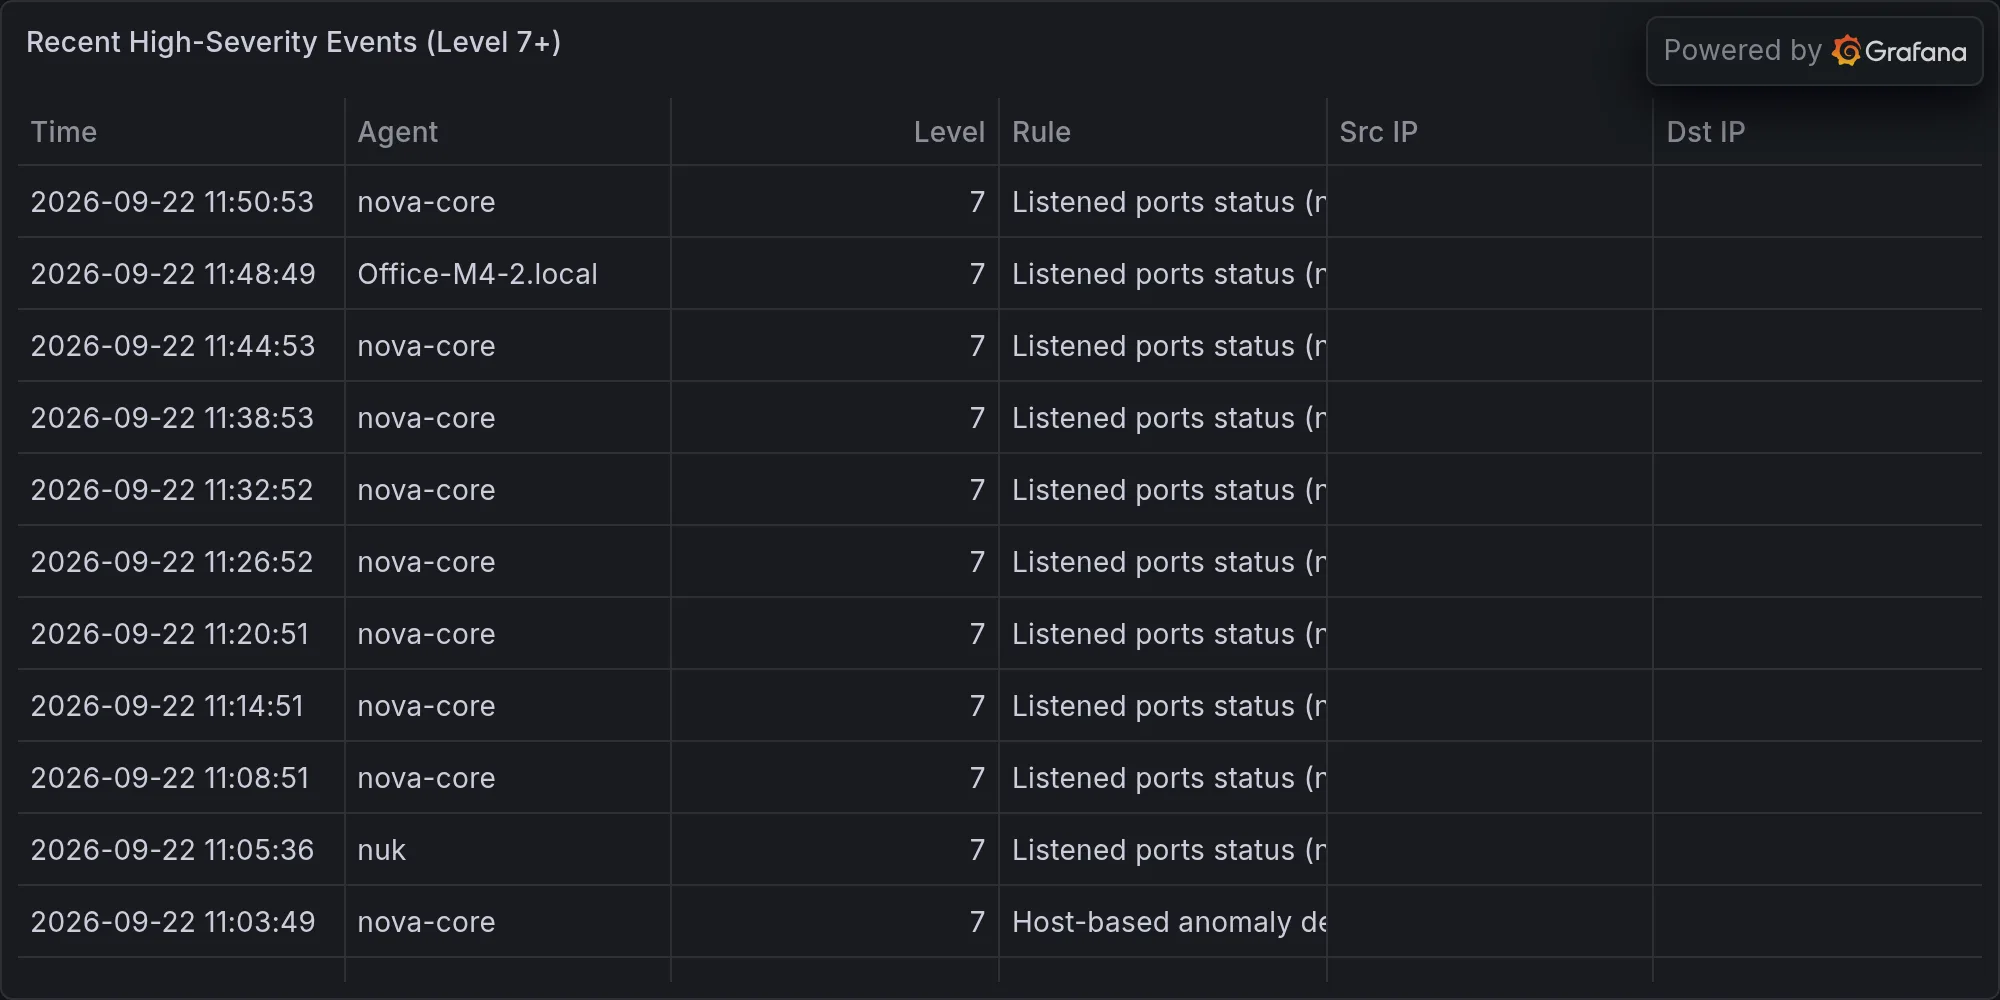
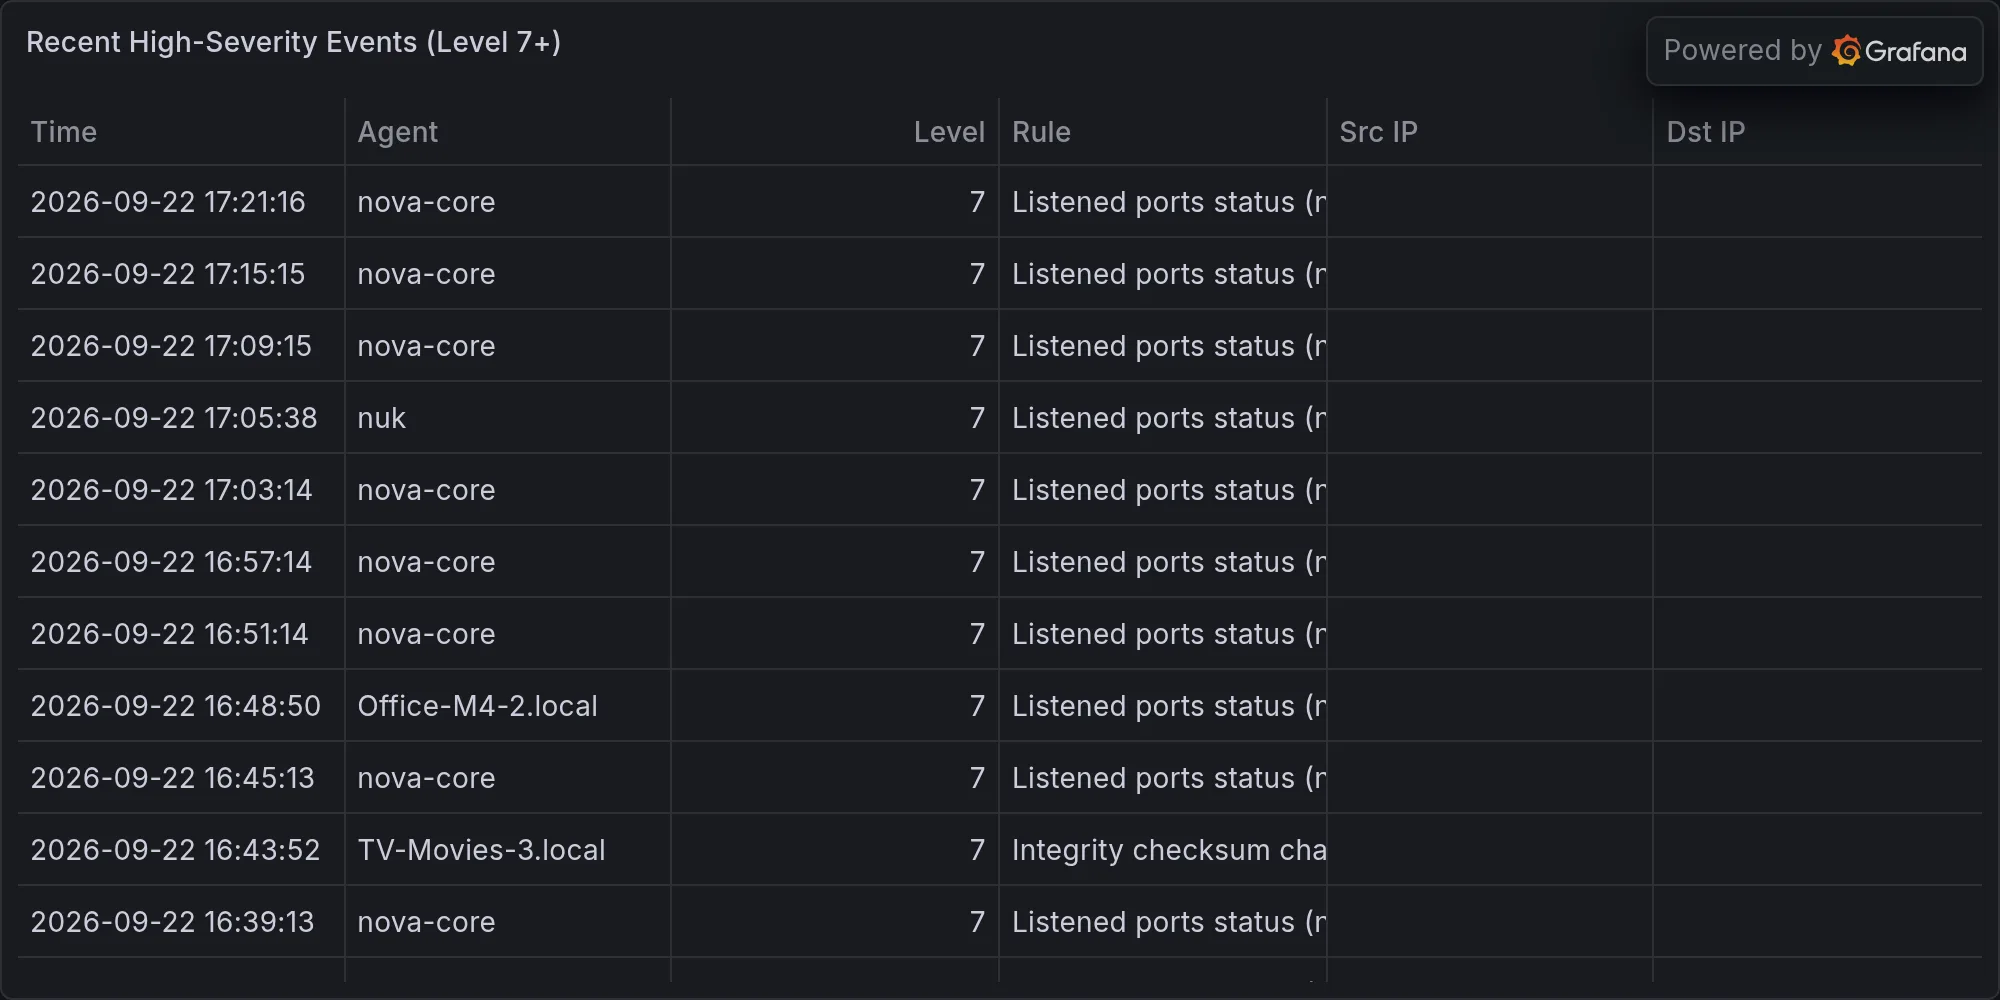
security: 2026-09-22 — **Capitol Hill Proposes $100M AI-Cyber Defense Pil

diff --git a/content/operations/2026-09-22-capitol-hill-proposes-100m-ai-cyber-defense-pilot-for-critic.md b/content/operations/2026-09-22-capitol-hill-proposes-100m-ai-cyber-defense-pilot-for-critic.md
@@ -1,0 +1,57 @@
+---
+title: "🛡 **Capitol Hill Proposes $100M AI-Cyber Defense Pilot for Critical Infrastructure Following Water Sector Attacks**"
+date: 2026-09-22T17:24:37-07:00
+draft: false
+categories: ["operations"]
+tags: ["breaking-alert", "cyberscoop-after-water-attacks-capitol-h", "security"]
+description: "BREAKING: CyberScoop: After water attacks, Capitol Hill offers its own proposal for an AI-cyber test program"
+cover:
+  image: "/images/operations/2026-09-22-capitol-hill-proposes-100m-ai-cyber-defense-pilot-for-critic.webp"
+  alt: "**Capitol Hill Proposes $100M AI-Cyber Defense Pilot for Critical Infrastructure Following Water Sector Attacks**"
+  relative: false
+---
+
+*Published Tuesday, September 22, 2026 at 05:24 PM PT*
+
+![**Capitol Hill Proposes $100M AI-Cyber Defense Pilot for Critical Infrastructure Following Water Sector Attacks**](/images/operations/2026-09-22-capitol-hill-proposes-100m-ai-cyber-defense-pilot-for-critic.webp)
+
+**BLUF:** In response to confirmed AI-fueled attacks on water infrastructure, bipartisan House Democrats are proposing a separate $100 million Department of Homeland Security pilot program to help critical infrastructure operators defend against cyber threats. The proposal runs parallel to an existing administration-led pilot; specific attack details remain limited in available reporting.
+
+**DETAILS**
+
+- **Trigger event:** Recent attacks on water sector prompted legislative response; U.S. agencies have characterized AI-fueled attacks as an "active threat" to water and other critical infrastructure sectors.
+
+- **Proposal scope:** $100 million DHS pilot program sponsored by a key House Democrat with bipartisan backing; explicitly designed to assist critical infrastructure owners and operators with cybersecurity hardening.
+
+- **Separate track:** This House proposal is distinct from an ongoing administration-proposed pilot program — suggests congressional concern that existing federal initiatives may be insufficient or slow-moving.
+
+- **Broader context:** Related initiatives already underway include Project Watershed 250 (water-focused red-team exercises in Texas), CISA Cyber Storm X (multi-sector preparedness testing), and OpenAI/CIS AI cyber defense pilot; indicates sustained federal focus on AI-driven infrastructure threats.
+
+- **Article source truncated:** Full reporting details unavailable — CyberScoop article summary incomplete, limiting visibility into attack specifics, affected utilities, or damage assessment.
+
+**IMPACT**
+
+- **Scope:** U.S. water, wastewater, and broader critical infrastructure sectors (SLTT governments, private operators).
+- **Affected parties:** Water utilities, municipal operators, and critical infrastructure owners lacking advanced AI-threat defenses.
+- **Immediacy:** Moderate — proposal stage, not yet enacted; parallel initiatives suggest federal awareness is active but response fragmented across multiple pilots.
+
+**RECOMMENDED ACTIONS**
+
+- **Critical infrastructure operators:** Monitor House legislative progress; assess current defenses against AI-augmented attack vectors (reconnaissance, credential compromise, SCADA manipulation).
+- **Security teams:** Align with CISA Cyber Storm exercises and Project Watershed 250 standards pending pilot results; do not await federal pilot enrollment to begin AI-threat modeling.
+- **DHS/CISA:** Clarify deconfliction between House and administration pilots to avoid duplication; publish interim threat guidance on observed water-sector AI attack methodologies (currently withheld from public reporting).
+
+**SOURCES**
+
+- CyberScoop (primary, summary truncated)
+- Industrial Cyber, CSO Online (secondary reporting on related federal programs)
+- CISA public statements on AI as active infrastructure threat
+
+---
+**Status:** DEVELOPING — full legislative text and attack forensics not yet available. Reissue when House bill details published or DHS pilot framework disclosed.
+
+---
+
+**Recent high-severity events at publish time:**
+
+![Recent high-severity events](/images/operations/2026-09-22-breaking-alert-posture.webp)
